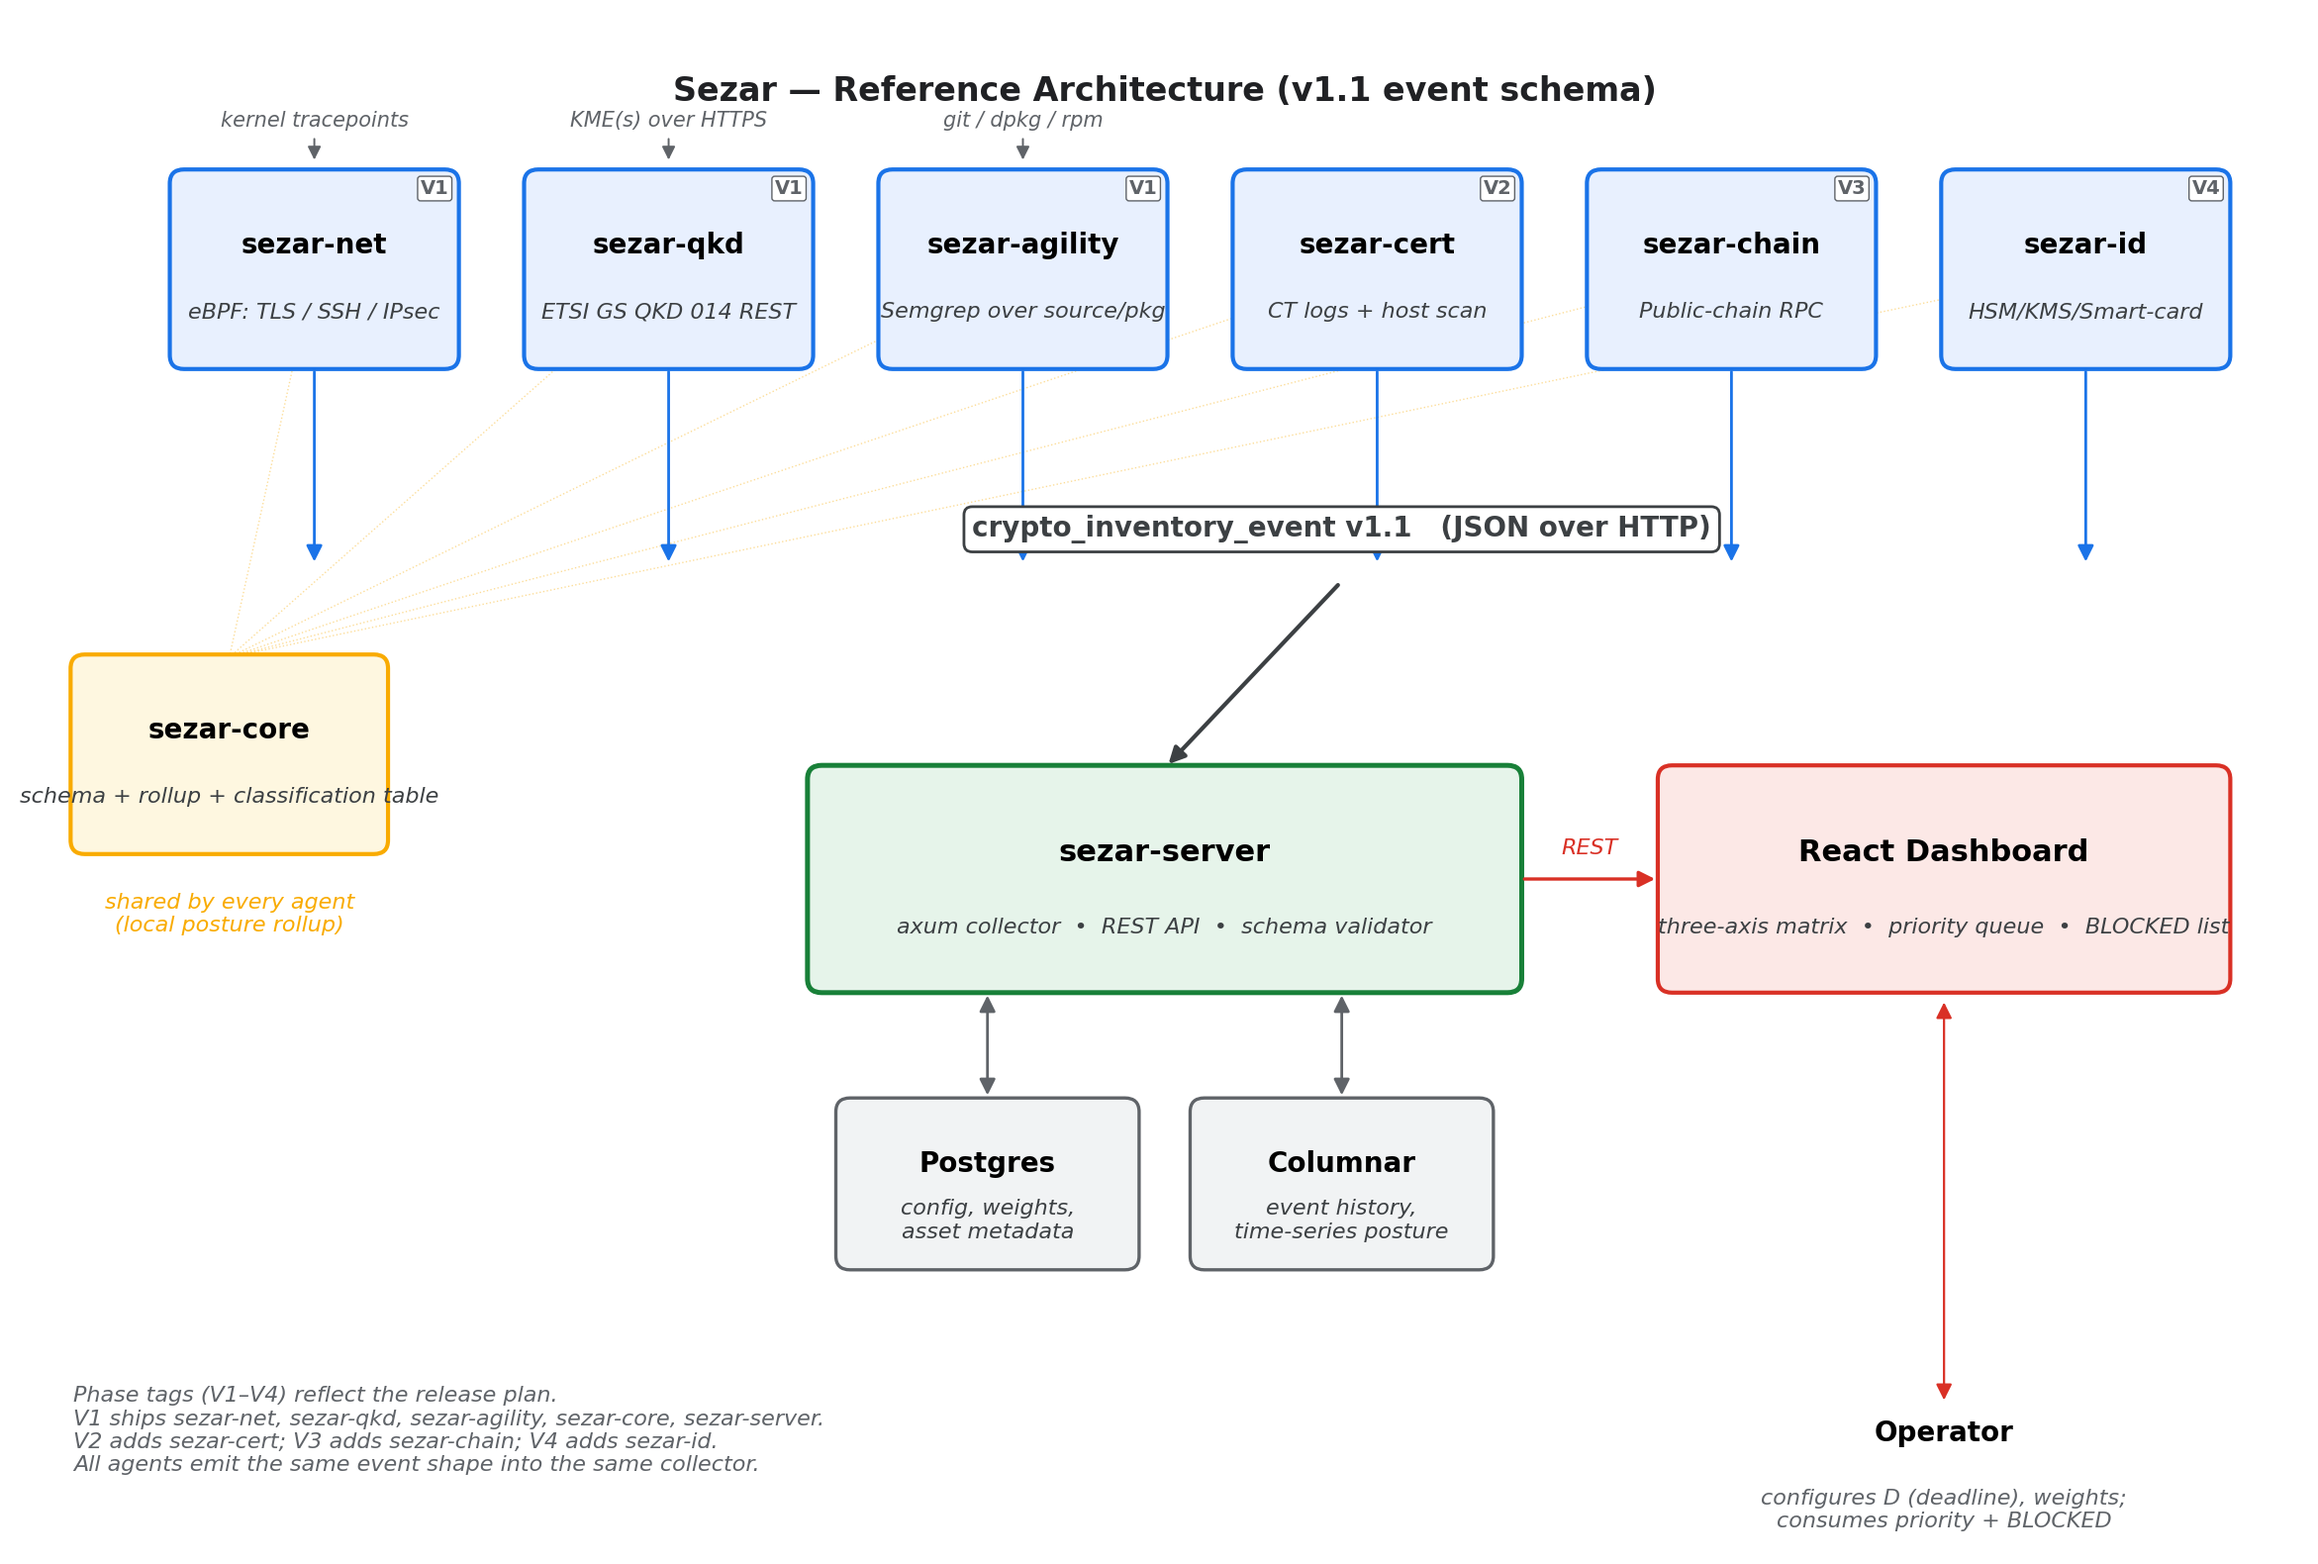
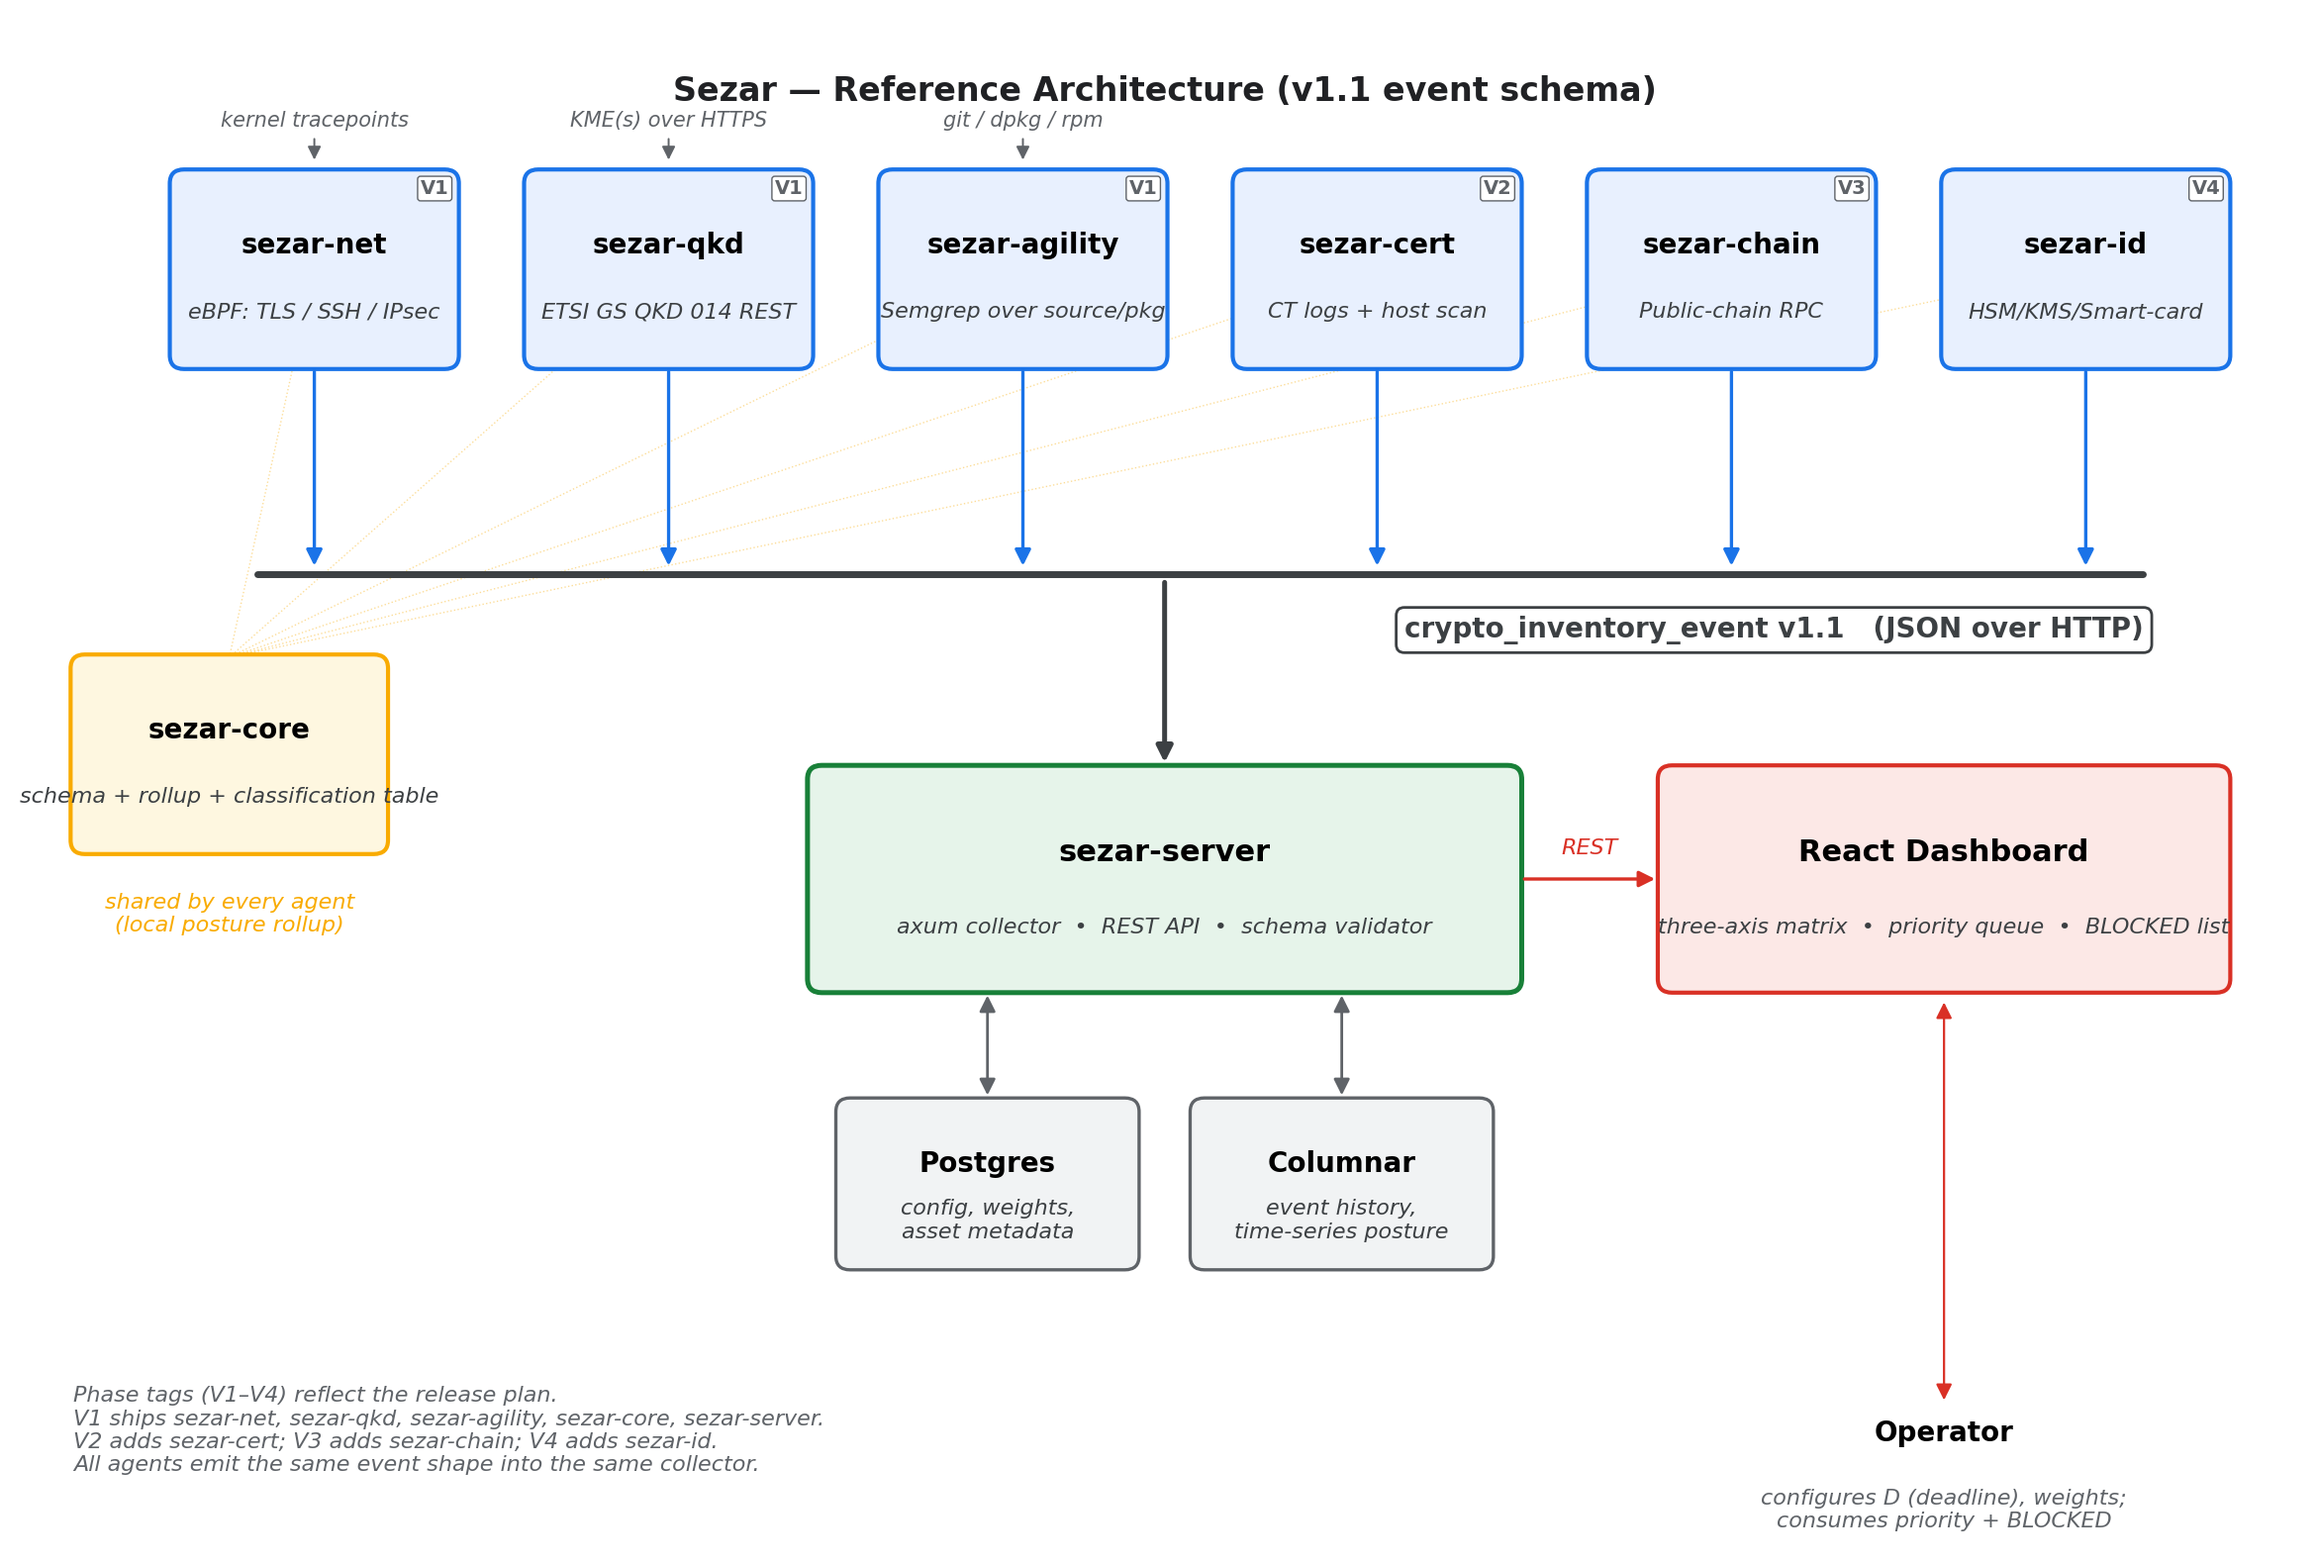
docs(paper): fix dangling agent arrows in the architecture figure
The event-bus line in Figure 3 was drawn with an empty annotate()
call, which does not render in some matplotlib backends — the six
agent arrows ended in blank space with nothing visibly beneath
them. Replaced it with an explicit ax.plot rail that the arrows
terminate on, moved the event-schema label under the right half
of the rail (clear of the arrows), and made the bus-to-collector
arrow a single vertical drop aligned with the server's centre so
the ingest flow reads top-to-bottom.

Changed region(s): [[0.1247, 0.3101, 0.9351, 0.4342], [0.4987, 0.4342, 0.5299, 0.4962]]

diff --git a/docs/paper/scripts/sezar-architecture.py b/docs/paper/scripts/sezar-architecture.py
@@ -88,21 +88,27 @@ def main():
         agent_positions.append((x + agent_w / 2, agent_y))
 
     # ---------- Event bus ----------
+    # A visible horizontal rail: every agent arrow terminates ON this line,
+    # and the line itself feeds the collector below. Drawn with ax.plot so
+    # it renders reliably (the earlier annotate-based line was invisible in
+    # some backends, leaving the agent arrows dangling in whitespace).
     bus_y = 7.0
-    bus_xs = [agent_positions[0][0], agent_positions[-1][0] + agent_w]
-    ax.annotate("", xy=(bus_xs[1] + 0.4, bus_y), xytext=(bus_xs[0] - 0.4, bus_y),
-                arrowprops=dict(arrowstyle="-", color="#3C4043", lw=2))
-    ax.text((bus_xs[0] + bus_xs[1]) / 2, bus_y + 0.22,
+    bus_xs = [agent_positions[0][0] - 0.4, agent_positions[-1][0] + 0.4]
+    ax.plot(bus_xs, [bus_y, bus_y], color="#3C4043", lw=2.5,
+            solid_capstyle="round", zorder=1)
+    # Label sits under the right half of the rail, clear of the vertical
+    # drop to the collector and of the agent arrows above the rail.
+    ax.text(12.3, bus_y - 0.30,
             "crypto_inventory_event v1.1   (JSON over HTTP)",
-            ha="center", va="bottom", fontsize=10, fontweight="bold",
+            ha="center", va="top", fontsize=10, fontweight="bold",
             color="#3C4043",
             bbox=dict(boxstyle="round,pad=0.3", facecolor="white",
                       edgecolor="#3C4043", linewidth=1))
 
-    # connect agents to bus (vertical arrows)
+    # connect agents to bus (vertical arrows, terminating on the rail)
     for ax_x, ay in agent_positions:
-        arrow(ax, (ax_x, ay), (ax_x, bus_y + 0.05),
-              color=AGENT_EDGE, lw=1.0)
+        arrow(ax, (ax_x, ay), (ax_x, bus_y + 0.02),
+              color=AGENT_EDGE, lw=1.2)
 
     # ---------- Shared library (left side) ----------
     core_x, core_y = 0.3, 5.0
@@ -131,10 +137,11 @@ def main():
         subtitle="axum collector  •  REST API  •  schema validator",
         face=SERVER_FACE, edge=SERVER_EDGE, lw=1.8, fontsize=11)
 
-    # bus → server
-    arrow(ax, ((bus_xs[0] + bus_xs[1]) / 2, bus_y - 0.05),
+    # bus → server: a single vertical drop from the rail into the collector,
+    # aligned with the server's centre so the flow reads top-to-bottom.
+    arrow(ax, (server_x + server_w / 2, bus_y - 0.02),
           (server_x + server_w / 2, server_y + server_h),
-          color="#3C4043", lw=1.5)
+          color="#3C4043", lw=1.8)
 
     # ---------- Storage ----------
     db_y = 2.0
